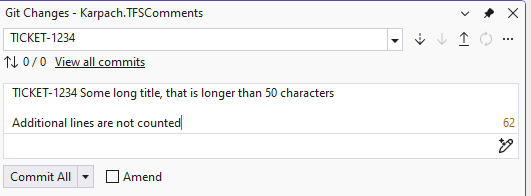
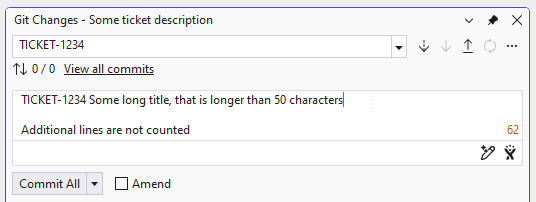
Update README.md and screenshots for JIRA integration

Changed region(s): [[0.0, 0.0, 0.9944, 1.0]]

diff --git a/README.md b/README.md
@@ -21,6 +21,11 @@ GitHub Comments is Visual Studio extension with the following features:
 - Applies threshold colors:
   - Greater or equal 50 characters warning (orange-like)
   - Greate than 72 characters error (red-like)
+
+### Atlassian Jira integration
+
+- Adds ticket summary to the Git Changes window title
+- Adds Jira button next to "Generate commit message", this button adds JIRA summary text to the commit message
   
 ![Screenshot3](Screenshots/screenshot3.png)  
 
